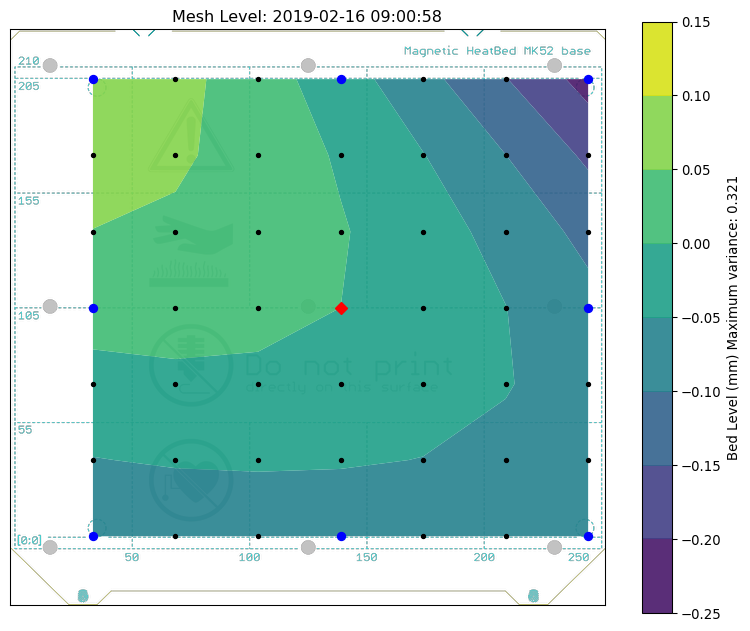
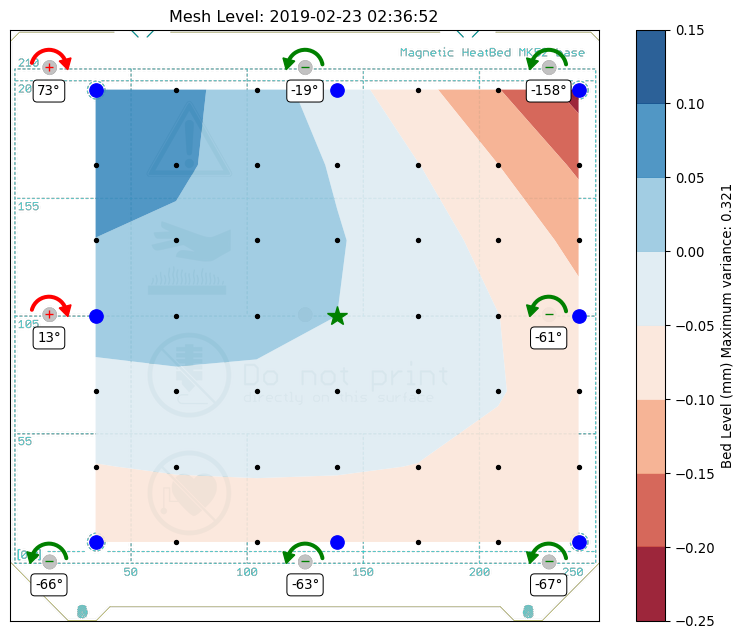
Added bed leveling with degrees
- Added arrows to show what way to turn the bolt and how many degrees
- Changed colors to better ones to show high/low points much better.

diff --git a/g81-to-heatmap.py b/g81-to-heatmap.py
@@ -1,15 +1,3 @@
-import datetime
-import numpy as np
-import re
-import matplotlib
-import matplotlib.image as mpimg
-
-# Tell matplotlib to not worry about DISPLAY
-matplotlib.use('Agg')
-
-# Import pyplot as plt for ease of use
-import matplotlib.pyplot as plt
-
 # This is the raw G81 output from Pronterface,
 # Your regex replace rules below will clean it
 # and make it ready for conversion to a list of
@@ -24,14 +12,78 @@ g81_output_raw = """
   0.13750  0.14009  0.14148  0.14167  0.14065  0.13843  0.1350
  """
 
+import re
+
 # Define your regex rules here depending on how
 # your raw output looks. Ultimately, you want to
 # arrive at several lines of comma separated
 # float values, so split() works well later.
-#g81_output_parsed = re.sub(r"^[ ]+", "", g81_output_raw.strip())
 g81_output_parsed = re.sub(r"\n[ ]+", "\n", g81_output_raw.strip())
-#g81_output_parsed = re.sub(r"[ ]+", ",", g81_output_parsed)
 
+# No need to edit anything below this :)
+#
+import datetime
+import numpy as np
+from numpy import radians as rad
+import matplotlib
+from matplotlib.patches import Arc, RegularPolygon
+import matplotlib.image as mpimg
+
+# Tell matplotlib to not worry about DISPLAY
+matplotlib.use('Agg')
+
+# Import pyplot as plt for ease of use
+import matplotlib.pyplot as plt
+
+# Draw arc arrow
+def arcArrow(ax,radius,centX,centY,direction='ccw',color_='black'):
+    angle_ = 165
+
+    # Line
+    arc = Arc([centX,centY],radius,radius,angle=angle_,
+      theta1=205,capstyle='round',linestyle='-',lw=3,color=color_)
+    ax.add_patch(arc)
+
+    dir = 1
+    if direction == 'cw':
+      dir = -1  
+    
+    # Create the arrow head
+    endX=centX+(radius/2)*dir*np.cos(rad(angle_)) #Do trig to determine end position
+    endY=centY+(radius/2)*np.sin(rad(angle_))
+
+    ax.add_patch(
+      RegularPolygon(
+        (endX, endY),
+         3,                   # triangle
+         radius/5,            # radius
+         dir*rad(360+angle_), # orientation
+         color=color_
+      )
+    )
+    ax.set_xlim([centX-radius,centY+radius]) and ax.set_ylim([centY-radius,centY+radius]) 
+
+# Calculate how many degrees to turn per distance
+def dist2deg(distance):
+    screw_pitch = 0.5
+    return str(int(round(distance / screw_pitch * 360))) + "°"
+
+# Add adjustment points
+def addAdjuster(ax,x,y,z):
+  if z < 0:
+    z_marker = '_'
+    z_mcolor = 'g'
+    dir = 'ccw'
+  elif z > 0:
+    z_marker = '+'
+    z_mcolor = 'r'
+    dir = 'cw'    
+  plt.plot(x, y, z_marker, color=z_mcolor)
+  plt.text(x, y-10, dist2deg(z), ha="center", va="center",
+    bbox=dict(boxstyle="round", facecolor="white", lw=0.75)
+  )  
+  arcArrow(ax,15,x,y,dir,z_mcolor)
+  
 # We're about to convert these strings into floats,
 # this list will hold onto those.
 g81_list_of_lists = []
@@ -47,21 +99,21 @@ row_count = 0
 col_count = 0
 x_size = 250
 y_size = 210
-
+  
 # These values come from mesh_bed_calibration.cpp
 ZERO_REF_X = 2
 ZERO_REF_Y = 9.4
 
-sheet_margin_front = 20
-sheet_margin_back = 12
+sheet_margin_front = 24.5
+sheet_margin_back = 16.5
 sheet_left_x = 0
 sheet_right_x = sheet_left_x + x_size
 sheet_front_y = -(sheet_margin_front)
 sheet_back_y = sheet_front_y + y_size + sheet_margin_front + sheet_margin_back
 
-left_probe_bed_position = 37 - ZERO_REF_X
+left_probe_bed_position = 38.5 - ZERO_REF_X
 front_probe_bed_position = 18.4 - ZERO_REF_Y
-right_probe_bed_position = 245 - ZERO_REF_X
+right_probe_bed_position = 243.5 - ZERO_REF_X
 back_probe_bed_position = 210.4 - ZERO_REF_Y
 
 x_inc = (right_probe_bed_position - left_probe_bed_position) / 6 
@@ -89,20 +141,38 @@ ax = plt.gca()
 for x in x_vals:
   for y in y_vals:
     plt.plot(x, y, '.', color='k')
-for x in [0, 3, 6]:
-  for y in [0, 3, 6]:
-    if x == 3 and y == 3:
-        marker = 'D'
-        m_color = 'r'
-    else:
-        marker = 'o'
-        m_color = 'b'
-    plt.plot(x_vals[x], y_vals[y], marker, color=m_color)
 
-contour = plt.contourf(x_vals, y_vals[::-1], z_vals, alpha=.90, antialiased=True)
+# Show bolt adjustment values
+# Bolt location Y values inverted
+x_points = [16.7, 0, 0, 125.4, 0, 0, 228.8]
+y_points =  [210.4, 0, 0, 105.6, 0, 0, 0.8]
+output_txt = ""
+for y in [0, 3, 6]:
+  print("\n")
+  output_txt = output_txt + "\n"
+  for x in [0, 3, 6]:
+    z_val = round(z_vals[y][x], 3)
+    print("\t" + str(z_val))
+    output_txt = output_txt + "\t" + dist2deg(z_val)
+    if x == 3 and y == 3:
+      marker = '*'
+      mcolor = 'g'
+      msize = 15
+    else:
+      marker = 'o'
+      mcolor = 'b'
+      msize = 10
+    plt.plot(x_vals[x], y_vals[y], marker, color=mcolor, linewidth=1, markersize=msize)
+    if z_val:
+      addAdjuster(ax, x_points[x], y_points[y], z_val)
+
+print(output_txt)
+ 
+cmap_theme = plt.cm.get_cmap("RdBu")
+contour = plt.contourf(x_vals, y_vals[::-1], z_vals, alpha=.90, antialiased=True, cmap=cmap_theme)
 img = mpimg.imread('Heatbed-MK52.png')
 #img = mpimg.imread('mk52_steel_sheet.png')
-plt.imshow(img, extent=[sheet_left_x, sheet_right_x, sheet_front_y, sheet_back_y], interpolation="lanczos")
+plt.imshow(img, extent=[sheet_left_x, sheet_right_x, sheet_front_y, sheet_back_y], interpolation="lanczos", cmap=cmap_theme)
 ax.set_xlim(left=0, right=x_size)
 ax.set_ylim(bottom=0, top=y_size)
 
